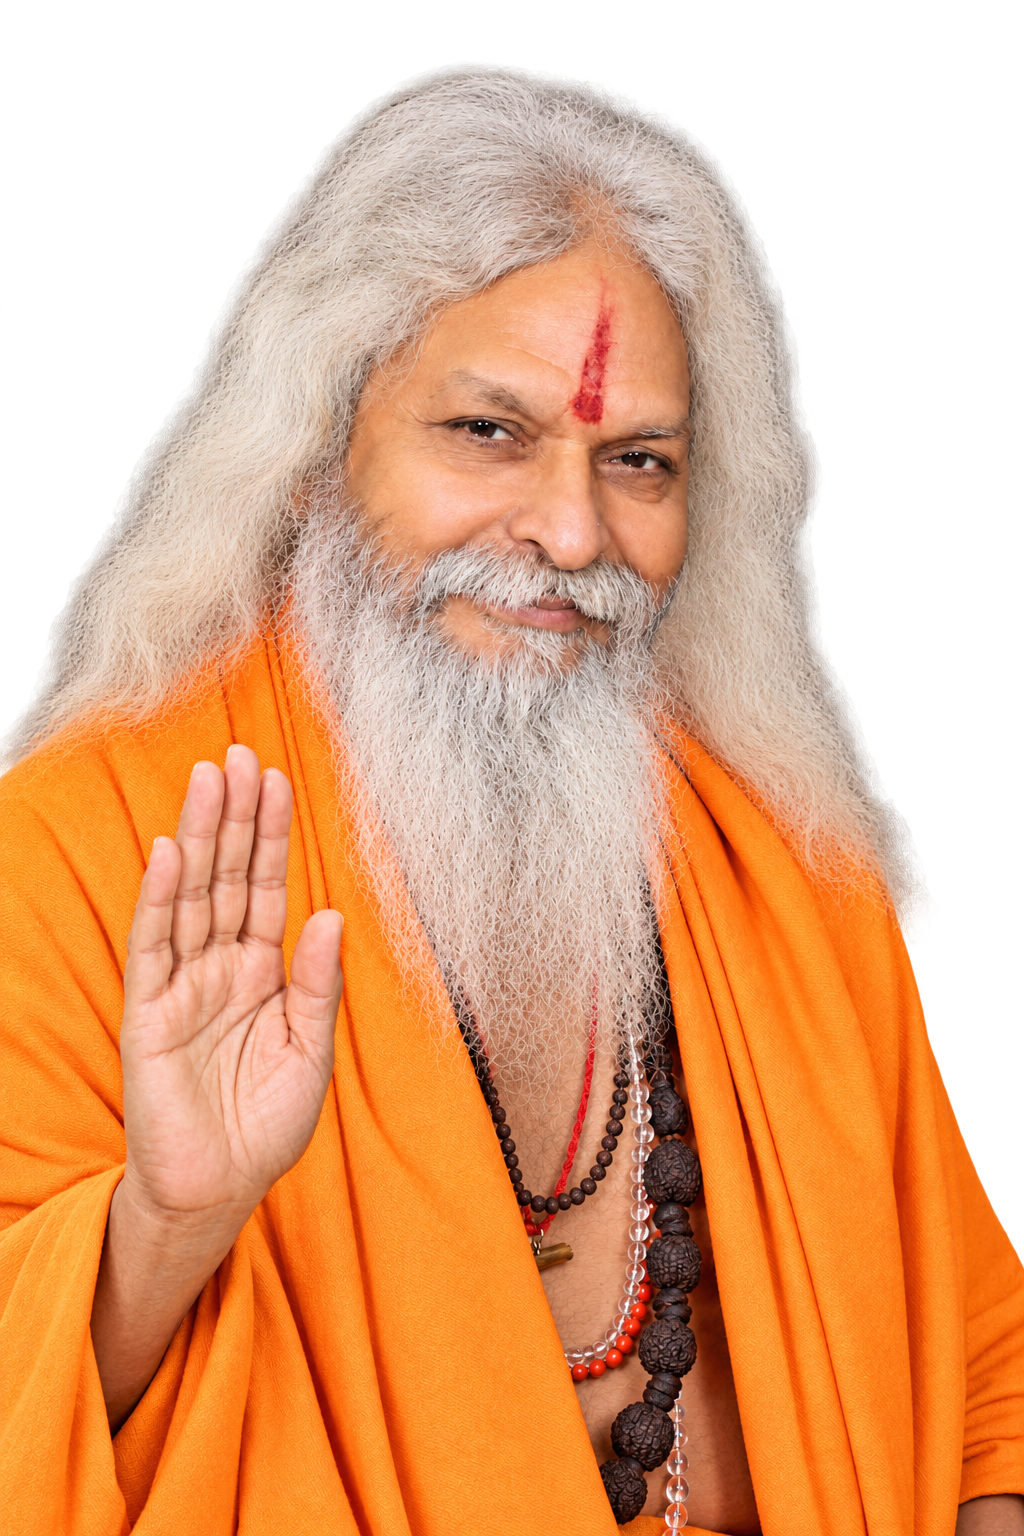
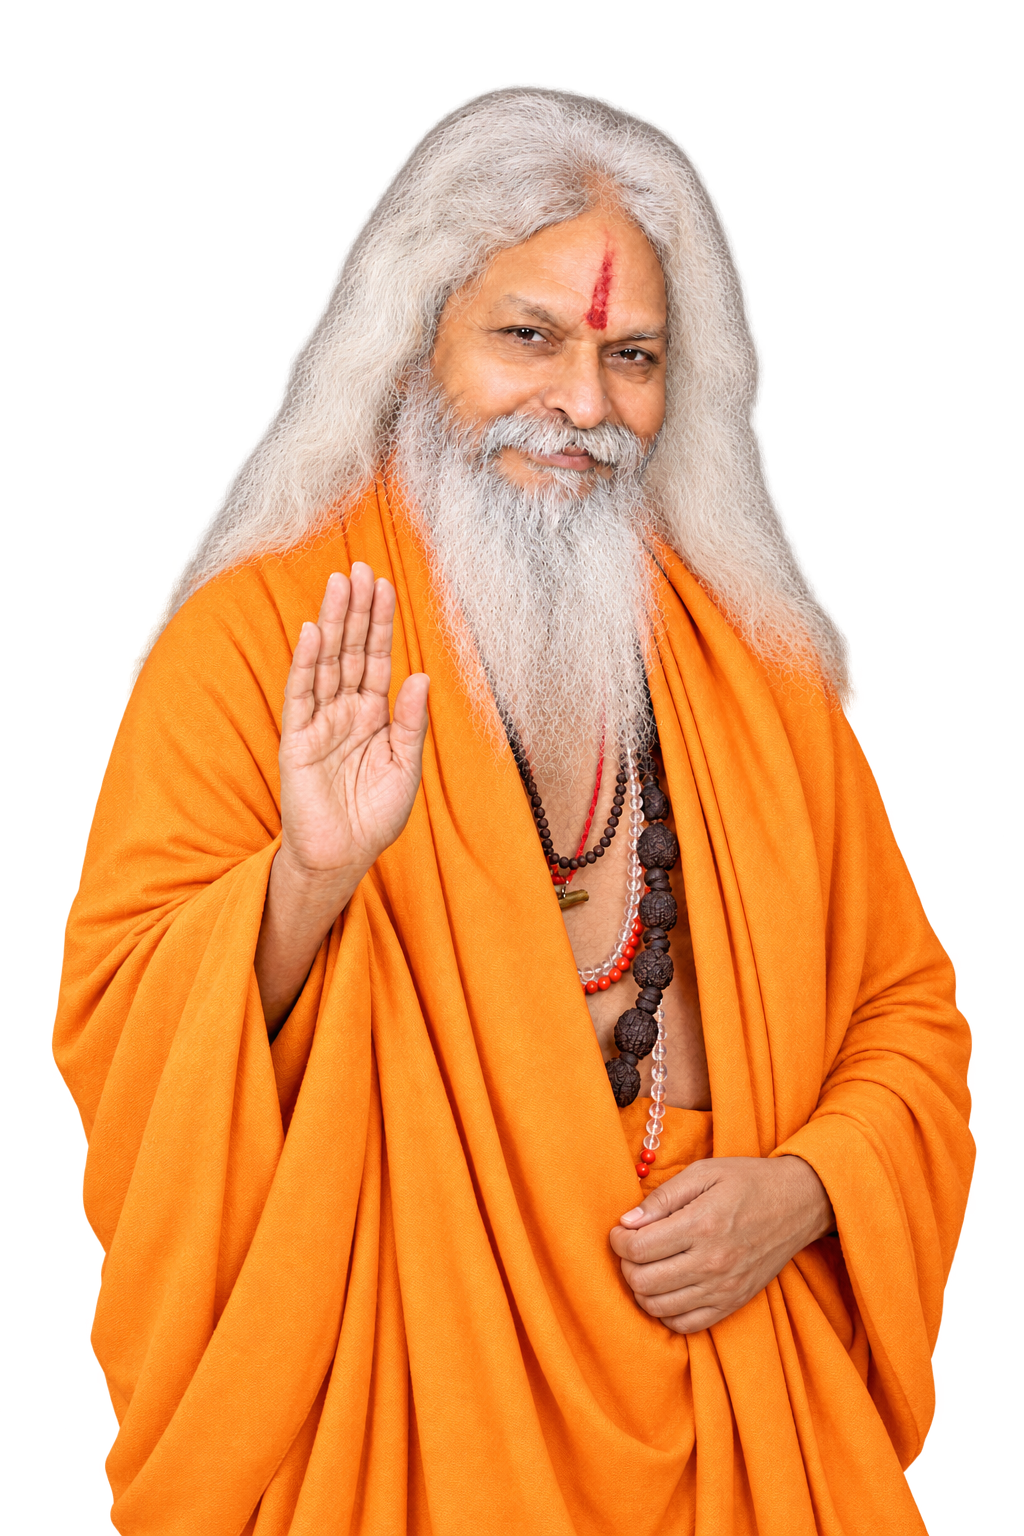
Add GuruParichay, VideoSlider, UpcomingEvents, Gallery, DonationCTA
New homepage sections below the hero, in order:
- GuruParichay: two-column intro (photo placeholder + bio + Read More)
- VideoSlider: replaces the old single autoplay video with a
  horizontally scrollable row of 4 video card placeholders
  (scroll-snap, no JS auto-advance, native swipe/scroll only)
- UpcomingEvents: 4-card grid with city/date/title placeholders
- Gallery: 8-tile CSS-columns masonry preview + View Full Gallery link
- DonationCTA: full-width saffron/gold gradient banner with Donate Now

Also picks up guruji/hanuman/petal art the user had already dropped
into public/assets since the last commit touching those paths, adds
a .no-scrollbar utility for the slider, and points the Navbar/Footer
About Us, Donation, Gallery links at the new section ids.

diff --git a/components/VideoSlider.tsx b/components/VideoSlider.tsx
@@ -1,0 +1,50 @@
+import Container from "./Container";
+
+const PLACEHOLDER_VIDEOS = [1, 2, 3, 4];
+
+export default function VideoSlider() {
+  return (
+    <section id="videos" className="w-full bg-saffron-50 py-14 md:py-20">
+      <Container>
+        <div className="flex flex-col items-center justify-between gap-2 text-center sm:flex-row sm:text-left">
+          <div>
+            <h2 className="font-heading text-3xl md:text-5xl font-semibold text-saffron-800">
+              Satsang Videos
+            </h2>
+            <p className="mt-2 font-body text-saffron-700/80">
+              Pravachan aur satsang ki jhalkiyaan
+            </p>
+          </div>
+          <a
+            href="#"
+            className="mt-4 font-body text-sm font-medium text-saffron-700 hover:text-saffron-900 sm:mt-0"
+          >
+            View All Videos &rarr;
+          </a>
+        </div>
+      </Container>
+
+      <div className="no-scrollbar mt-10 flex snap-x snap-mandatory gap-5 overflow-x-auto px-6 pb-4">
+        {PLACEHOLDER_VIDEOS.map((n) => (
+          <div
+            key={n}
+            className="w-[78%] flex-none snap-start sm:w-[46%] lg:w-[23%]"
+          >
+            <div className="relative aspect-video overflow-hidden rounded-xl border border-gold-200 bg-gold-50">
+              <div className="absolute inset-0 flex items-center justify-center">
+                <div className="flex h-14 w-14 items-center justify-center rounded-full bg-white/90 shadow-md">
+                  <svg width="20" height="20" viewBox="0 0 24 24" fill="currentColor" className="ml-0.5 text-saffron-700">
+                    <path d="M8 5v14l11-7z" />
+                  </svg>
+                </div>
+              </div>
+            </div>
+            <p className="mt-3 font-body text-sm text-saffron-800">
+              Video title {n}
+            </p>
+          </div>
+        ))}
+      </div>
+    </section>
+  );
+}

diff --git a/components/GuruParichay.tsx b/components/GuruParichay.tsx
@@ -1,0 +1,39 @@
+import Container from "./Container";
+
+export default function GuruParichay() {
+  return (
+    <section id="guru-parichay" className="w-full bg-white py-14 md:py-20">
+      <Container className="grid grid-cols-1 items-center gap-10 md:grid-cols-2 md:gap-16">
+        <div className="mx-auto aspect-4/5 w-full max-w-sm overflow-hidden rounded-2xl border border-gold-200 bg-gradient-to-br from-saffron-100 to-gold-100 shadow-sm flex items-center justify-center">
+          <span className="font-body text-sm text-gold-600">
+            Guruji Photo (placeholder)
+          </span>
+        </div>
+
+        <div className="text-center md:text-left">
+          <h2 className="font-heading text-3xl md:text-5xl font-semibold text-saffron-800">
+            Guru Parichay
+          </h2>
+          <p className="mt-4 font-body text-base leading-relaxed text-saffron-700/90">
+            Guruji ne apna jeevan Hanuman bhakti, satsang aur samaj seva ko
+            samarpit kiya hai. Varshon ki sadhna aur anubhav ke madhyam se
+            unhone hazaaron shraddhaluon ko dharm ke path par agrasar kiya
+            hai. Unka jeevan tyaag, karuna aur bhakti ka jeeta jaagta udaharan
+            hai.
+          </p>
+          <p className="mt-3 font-body text-base leading-relaxed text-saffron-700/90">
+            Aaj bhi wo desh-videsh mein satsang, pravachan aur yatra ke
+            madhyam se logon tak Hanuman ji ka ashirwad pahunchate hain.
+          </p>
+
+          <button
+            type="button"
+            className="mt-6 rounded-full bg-saffron-600 px-8 py-3 font-body text-sm font-medium text-white transition-colors hover:bg-saffron-700"
+          >
+            Read More
+          </button>
+        </div>
+      </Container>
+    </section>
+  );
+}

diff --git a/components/UpcomingEvents.tsx b/components/UpcomingEvents.tsx
@@ -1,0 +1,42 @@
+import Container from "./Container";
+
+const PLACEHOLDER_EVENTS = [
+  { city: "Delhi", date: "12 Oct 2026" },
+  { city: "Mumbai", date: "26 Oct 2026" },
+  { city: "Jaipur", date: "08 Nov 2026" },
+  { city: "Varanasi", date: "22 Nov 2026" },
+];
+
+export default function UpcomingEvents() {
+  return (
+    <section id="events" className="w-full bg-white py-14 md:py-20">
+      <Container>
+        <div className="text-center">
+          <h2 className="font-heading text-3xl md:text-5xl font-semibold text-saffron-800">
+            Upcoming Events
+          </h2>
+          <p className="mt-2 font-body text-saffron-700/80">
+            Aane wale satsang aur yatra ke karyakram
+          </p>
+        </div>
+
+        <div className="mt-10 grid grid-cols-1 gap-6 sm:grid-cols-2 lg:grid-cols-4">
+          {PLACEHOLDER_EVENTS.map((event, i) => (
+            <div
+              key={i}
+              className="rounded-xl border border-gold-200 bg-saffron-50 p-6 text-center shadow-sm"
+            >
+              <span className="font-body text-xs font-semibold uppercase tracking-wide text-saffron-600">
+                {event.city}
+              </span>
+              <p className="mt-2 font-body text-sm text-gold-700">{event.date}</p>
+              <h3 className="mt-3 font-heading text-lg text-saffron-800">
+                Event title placeholder
+              </h3>
+            </div>
+          ))}
+        </div>
+      </Container>
+    </section>
+  );
+}

diff --git a/components/Gallery.tsx b/components/Gallery.tsx
@@ -1,0 +1,39 @@
+import Container from "./Container";
+
+const TILE_HEIGHTS = ["h-40", "h-56", "h-48", "h-64", "h-40", "h-56", "h-48", "h-40"];
+
+export default function Gallery() {
+  return (
+    <section id="gallery" className="w-full bg-saffron-50 py-14 md:py-20">
+      <Container>
+        <div className="flex flex-col items-center justify-between gap-2 text-center sm:flex-row sm:text-left">
+          <div>
+            <h2 className="font-heading text-3xl md:text-5xl font-semibold text-saffron-800">
+              Gallery
+            </h2>
+            <p className="mt-2 font-body text-saffron-700/80">
+              Satsang aur yatra ki jhalkiyaan
+            </p>
+          </div>
+          <a
+            href="#"
+            className="mt-4 font-body text-sm font-medium text-saffron-700 hover:text-saffron-900 sm:mt-0"
+          >
+            View Full Gallery &rarr;
+          </a>
+        </div>
+
+        <div className="mt-10 columns-2 gap-4 sm:columns-3 md:columns-4">
+          {TILE_HEIGHTS.map((h, i) => (
+            <div
+              key={i}
+              className={`mb-4 ${h} w-full break-inside-avoid rounded-xl border border-gold-200 bg-gradient-to-br from-gold-100 to-saffron-100 flex items-center justify-center`}
+            >
+              <span className="font-body text-xs text-gold-600">Photo {i + 1}</span>
+            </div>
+          ))}
+        </div>
+      </Container>
+    </section>
+  );
+}

diff --git a/components/Footer.tsx b/components/Footer.tsx
@@ -16,16 +16,19 @@ export default function Footer() {
           <h4 className="font-heading text-lg text-gold-200">Quick Links</h4>
           <ul className="mt-3 space-y-2 font-body text-sm text-saffron-200/80">
             <li>
-              <a href="#" className="hover:text-gold-100">About Us</a>
+              <a href="#guru-parichay" className="hover:text-gold-100">About Us</a>
             </li>
             <li>
-              <a href="#" className="hover:text-gold-100">Yatra Schedule</a>
+              <a href="#" className="hover:text-gold-100">Maha Yagya</a>
             </li>
             <li>
-              <a href="#" className="hover:text-gold-100">Donation</a>
+              <a href="#donate" className="hover:text-gold-100">Donation</a>
             </li>
             <li>
               <a href="#videos" className="hover:text-gold-100">Videos</a>
+            </li>
+            <li>
+              <a href="#gallery" className="hover:text-gold-100">Gallery</a>
             </li>
           </ul>
         </div>

diff --git a/components/DonationCTA.tsx b/components/DonationCTA.tsx
@@ -1,0 +1,26 @@
+import Container from "./Container";
+
+export default function DonationCTA() {
+  return (
+    <section
+      id="donate"
+      className="w-full bg-gradient-to-r from-saffron-600 via-saffron-500 to-gold-500 py-16 md:py-20"
+    >
+      <Container className="text-center">
+        <h2 className="font-heading text-3xl md:text-5xl font-semibold text-white">
+          Seva Mein Sahyog Dein
+        </h2>
+        <p className="mx-auto mt-3 max-w-xl font-body text-base text-saffron-50/90">
+          Aapka daan Hanuman bhakti, satsang aur seva karyon ko aage badhane
+          mein madad karta hai.
+        </p>
+        <button
+          type="button"
+          className="mt-7 rounded-full bg-white px-9 py-3 font-body text-sm font-semibold text-saffron-700 shadow-md transition-colors hover:bg-saffron-50"
+        >
+          Donate Now
+        </button>
+      </Container>
+    </section>
+  );
+}

diff --git a/app/page.tsx b/app/page.tsx
@@ -1,6 +1,10 @@
 import Navbar from "@/components/Navbar";
 import Hero from "@/components/Hero";
-import VideoSection from "@/components/VideoSection";
+import GuruParichay from "@/components/GuruParichay";
+import VideoSlider from "@/components/VideoSlider";
+import UpcomingEvents from "@/components/UpcomingEvents";
+import Gallery from "@/components/Gallery";
+import DonationCTA from "@/components/DonationCTA";
 import Footer from "@/components/Footer";
 
 export default function Home() {
@@ -8,7 +12,11 @@ export default function Home() {
     <main>
       <Navbar />
       <Hero />
-      <VideoSection />
+      <GuruParichay />
+      <VideoSlider />
+      <UpcomingEvents />
+      <Gallery />
+      <DonationCTA />
       <Footer />
     </main>
   );

diff --git a/components/Navbar.tsx b/components/Navbar.tsx
@@ -4,10 +4,10 @@ import { useState } from "react";
 
 const LINKS = [
   { label: "Home", href: "#home" },
-  { label: "About Us", href: "#" },
-  { label: "Yatra", href: "#" },
+  { label: "About Us", href: "#guru-parichay" },
+  { label: "Maha Yagya", href: "#" },
   { label: "Videos", href: "#videos" },
-  { label: "Donation", href: "#" },
+  { label: "Donation", href: "#donate" },
 ];
 
 export default function Navbar() {

diff --git a/app/globals.css b/app/globals.css
@@ -65,3 +65,12 @@ body {
 h1, h2, h3, h4 {
   font-family: var(--font-heading), Georgia, serif;
 }
+
+.no-scrollbar {
+  scrollbar-width: none;
+  -ms-overflow-style: none;
+}
+
+.no-scrollbar::-webkit-scrollbar {
+  display: none;
+}
